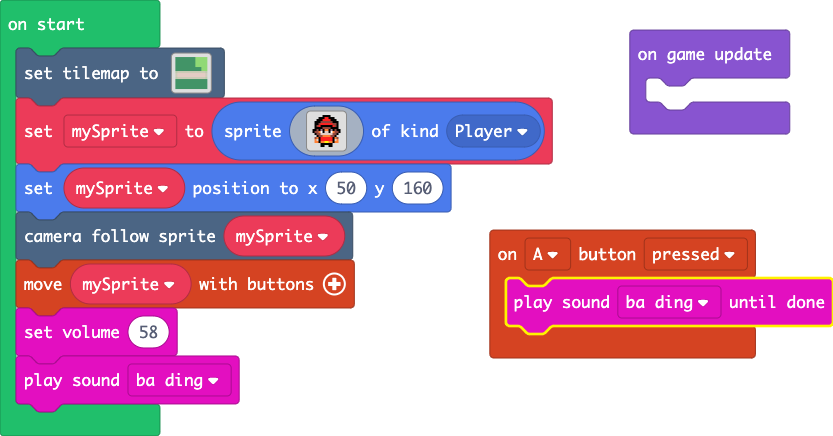
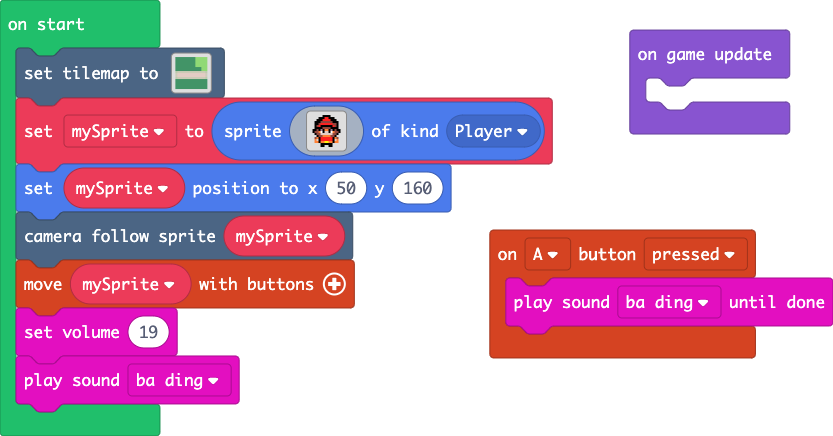
changed volume

Changed region(s): [[0.593, 0.6261, 1.0, 0.7752], [0.1561, 0.7454, 0.1873, 0.7752]]

diff --git a/main.ts b/main.ts
@@ -66,7 +66,7 @@ let mySprite = sprites.create(img`
 mySprite.setPosition(50, 160)
 scene.cameraFollowSprite(mySprite)
 controller.moveSprite(mySprite)
-music.setVolume(58)
+music.setVolume(19)
 music.baDing.play()
 game.onUpdate(function () {
 	
